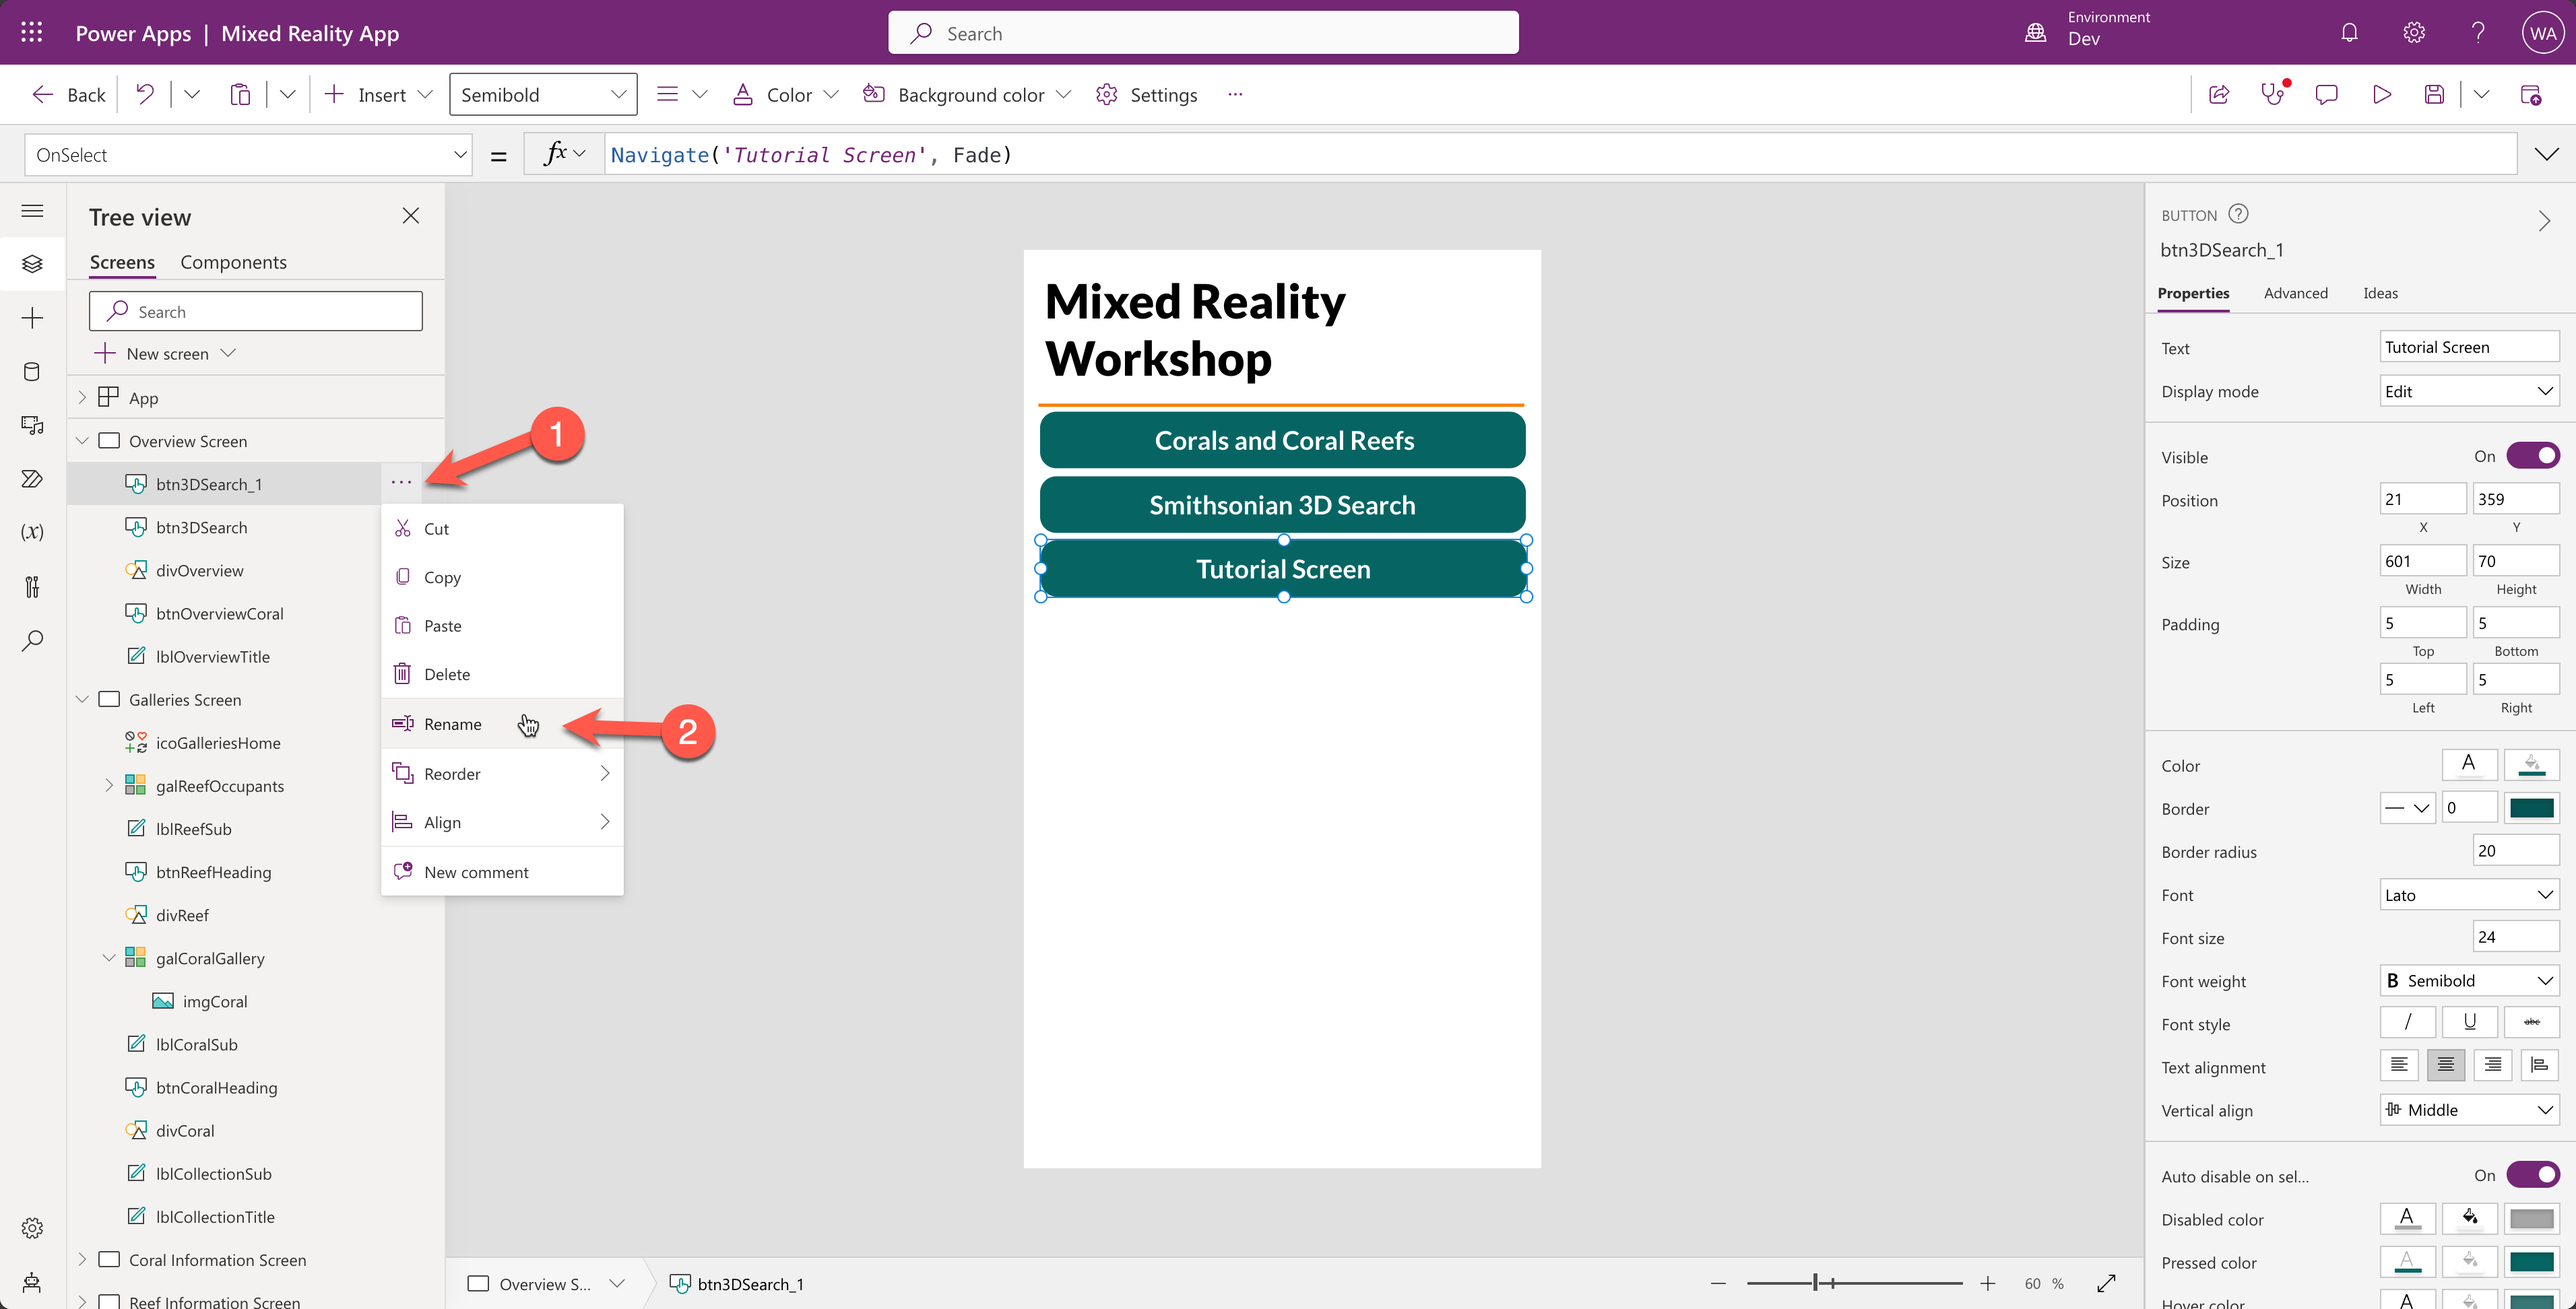
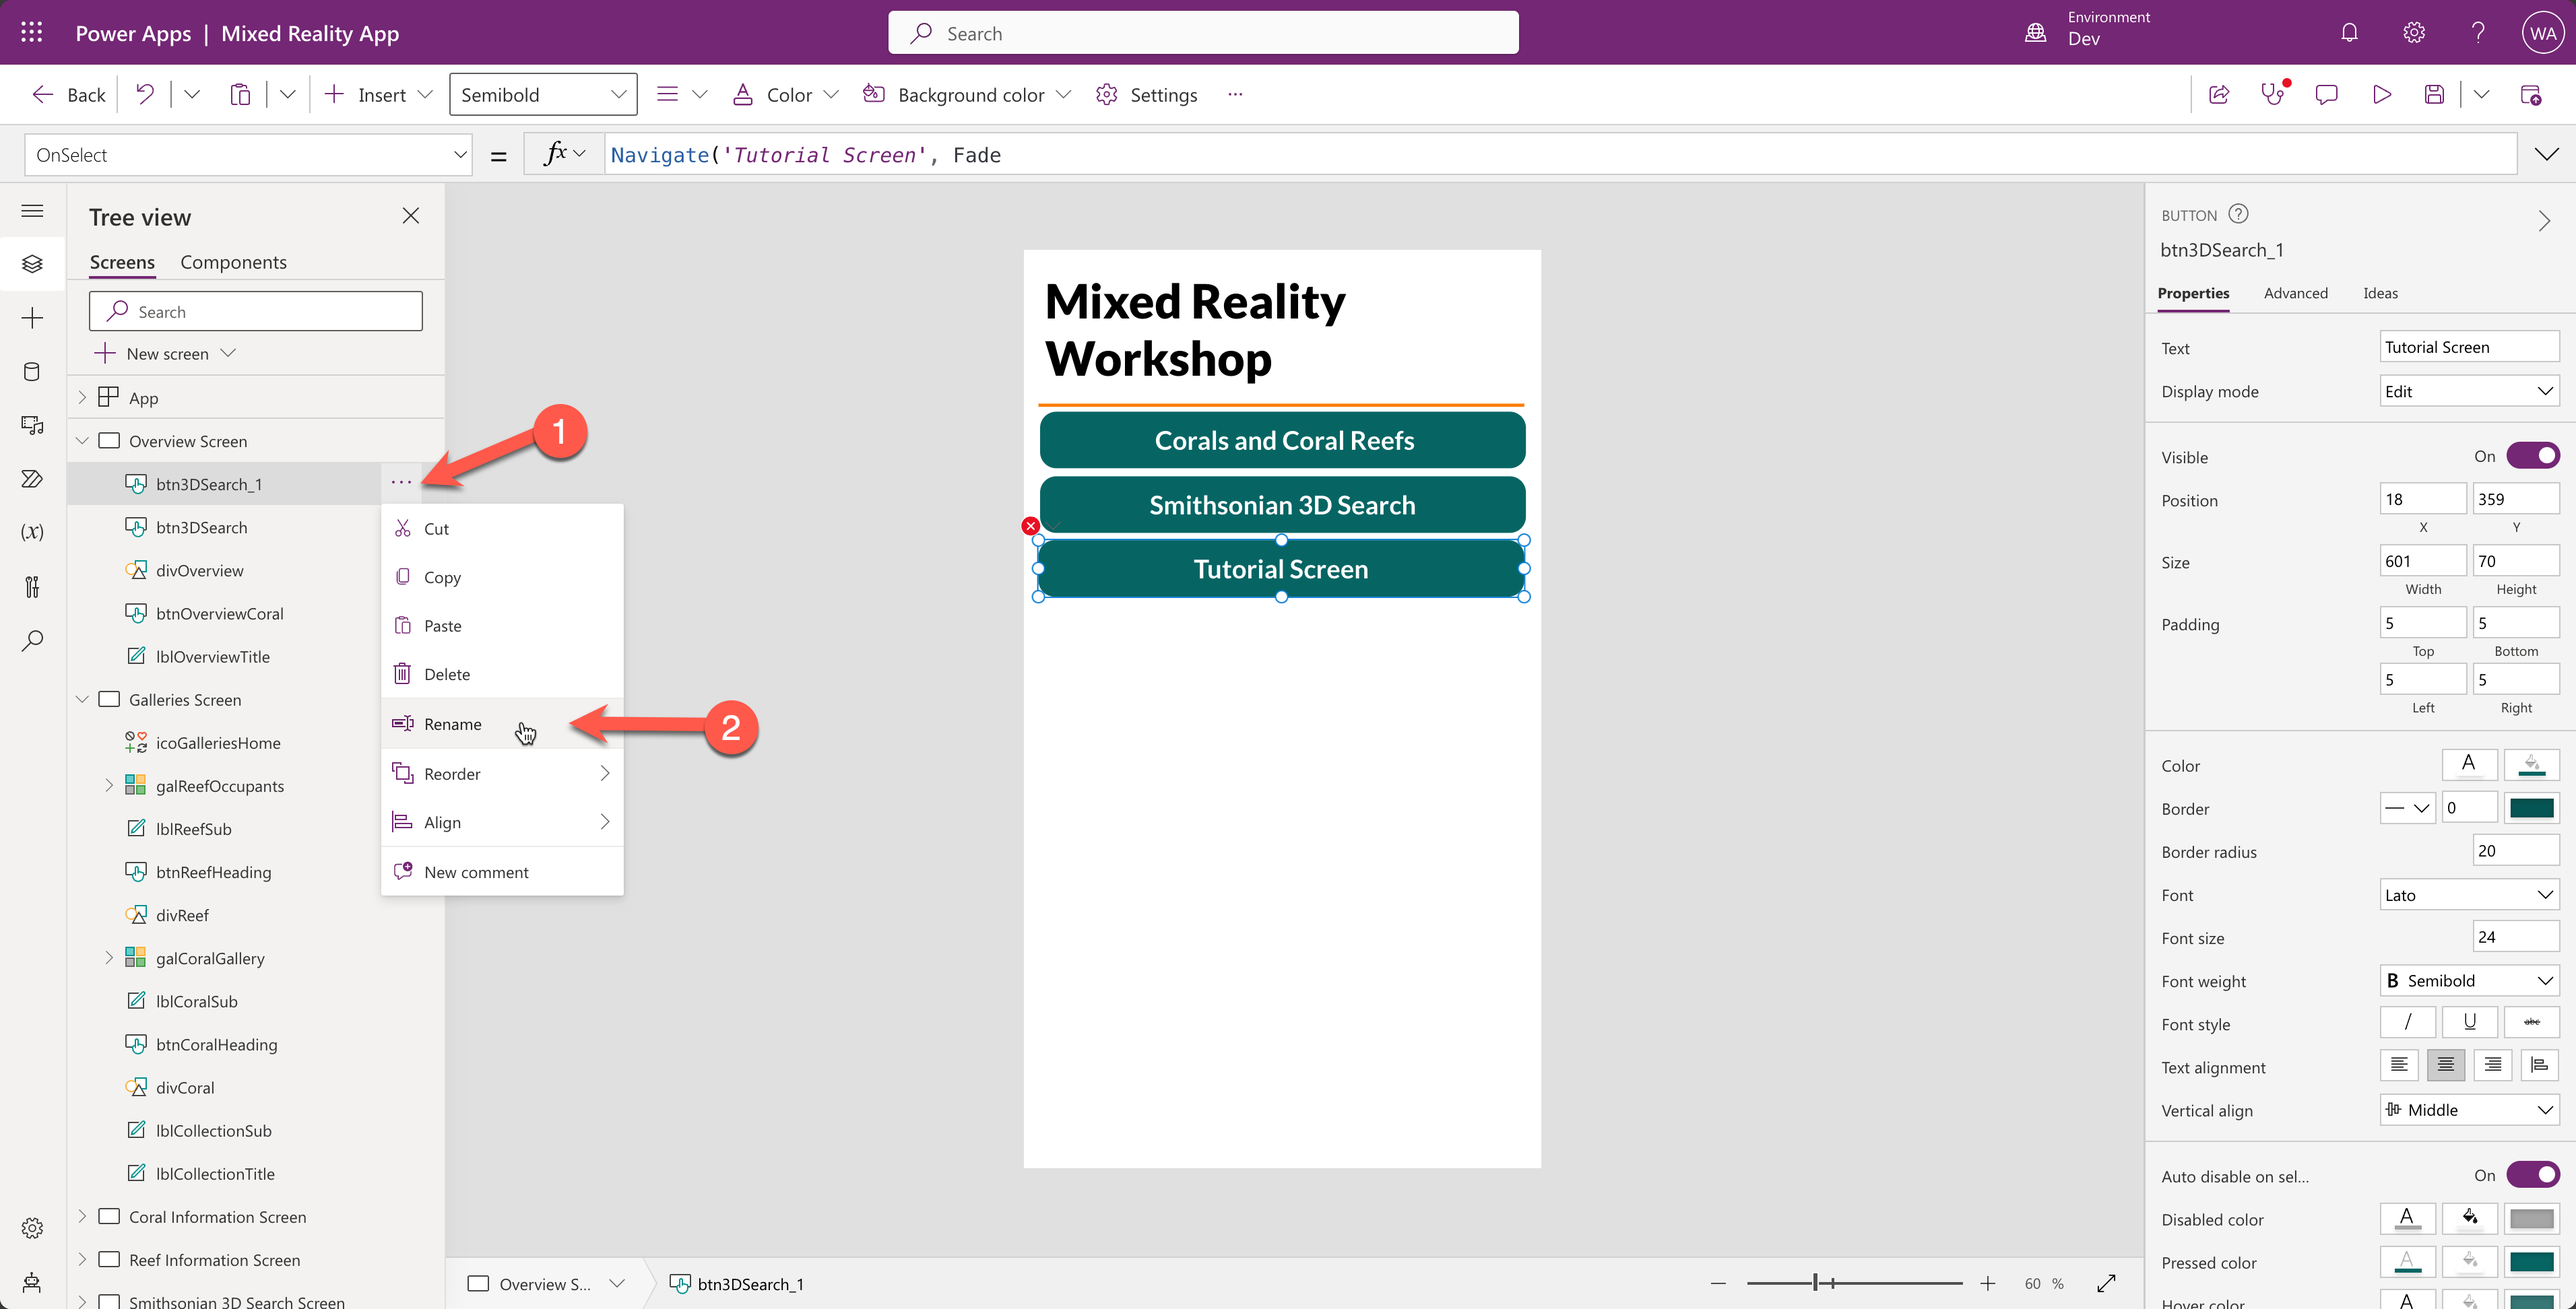
Update lab 03

diff --git a/Workshops/LowCodeALM/lab-03/README.md b/Workshops/LowCodeALM/lab-03/README.md
@@ -25,14 +25,14 @@ In this task, you will act like you're a colleague who wants to change the Mixed
         ![](./assets/add-screen-edit-app.png)
 1. Select `New screen`, select `Templates`, and select the `Tutorial` screen
         ![](./assets/add-screen-add-new-screen.png)
-1. In the tree view on the left scroll down until you see `Screen2`, select the `elipsis` next to it, and select `Rename`
+1. In the tree view on the left scroll down until you see `Screen1`, select the `elipsis` next to it, and select `Rename`
         ![](./assets/add-screen-rename-new-screen.png)
 1. Select the `Overview Screen`, right-click on the `Smithsonian 3D Search` button and select `Copy`
         ![](./assets/add-screen-rightclick-smiths3d-button.png)
 1. Right-click on the screen and select `Paste` to paste a copy of the button
         ![](./assets/add-screen-rightclick-paste.png)
 1. Position the button below the others, add the following formula (yes, this is an incorrect formula, but you will learn why later in this lab) for the `OnSelect` property in the formula bar:  
-    `Navigate('Tutorial Screen', Fade`  
+    `Navigate('Tutorial Screen', ScreenTransition.Fade`  
     Change the `text` property on the right to:  
     `Tutorial Screen`
         ![](./assets/add-screen-change-button-props.png)
@@ -71,7 +71,16 @@ Now that the branch is available to everyone who has access to the GitHub repo, 
 
 ## Task 03: Sync the updated solution to the new branch
 
-TODO
+In task 03, you will learn how to sync the latest changes back to your Codespace. 
+
+1. Go back to your Codespace
+1. Change your directory to the directory where you cloned the solution to by using the following command:  
+    `cd assets/export/MixedRealityWorkshop/`
+    ![](./assets/sync-change-directory.png)
+1. Now we are in the right directory to sync the latest changes. Use the following command to get the latest changes:  
+    `pac solution sync --processCanvasApps`  
+    Notice that you don't have to add the solution name now. The Power Platform CLI is smart enough to get that from the current directory
+
 
 ## Task 04: Run the solution checker
 
